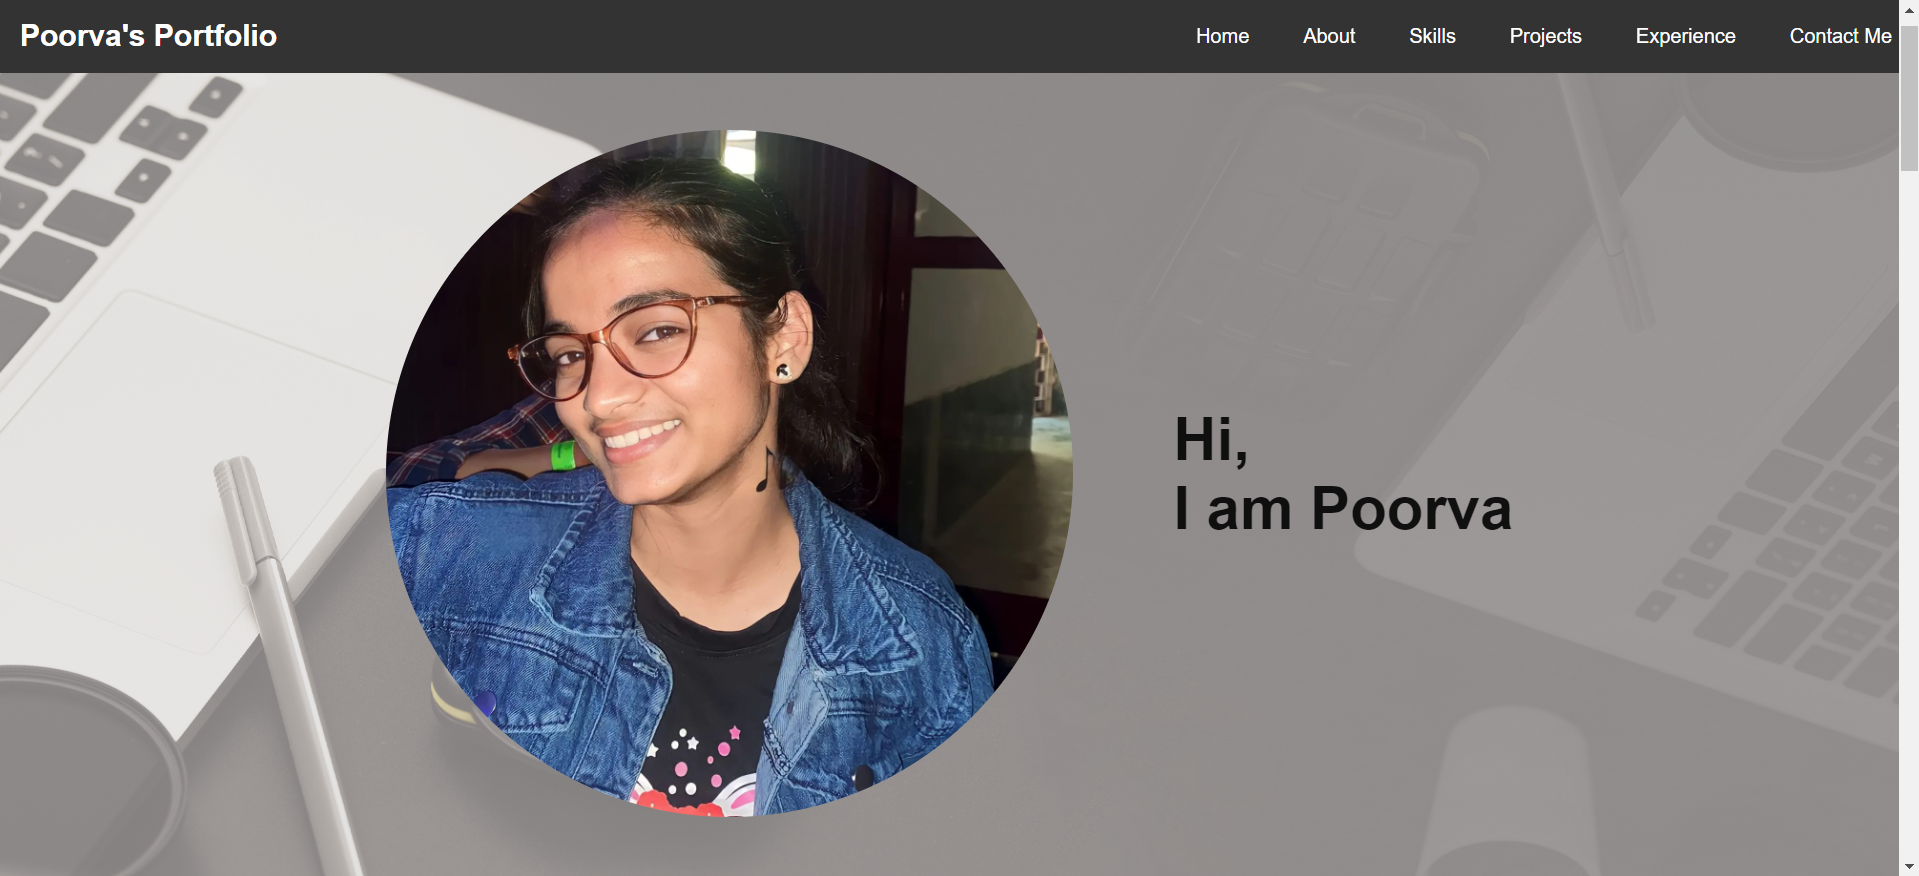
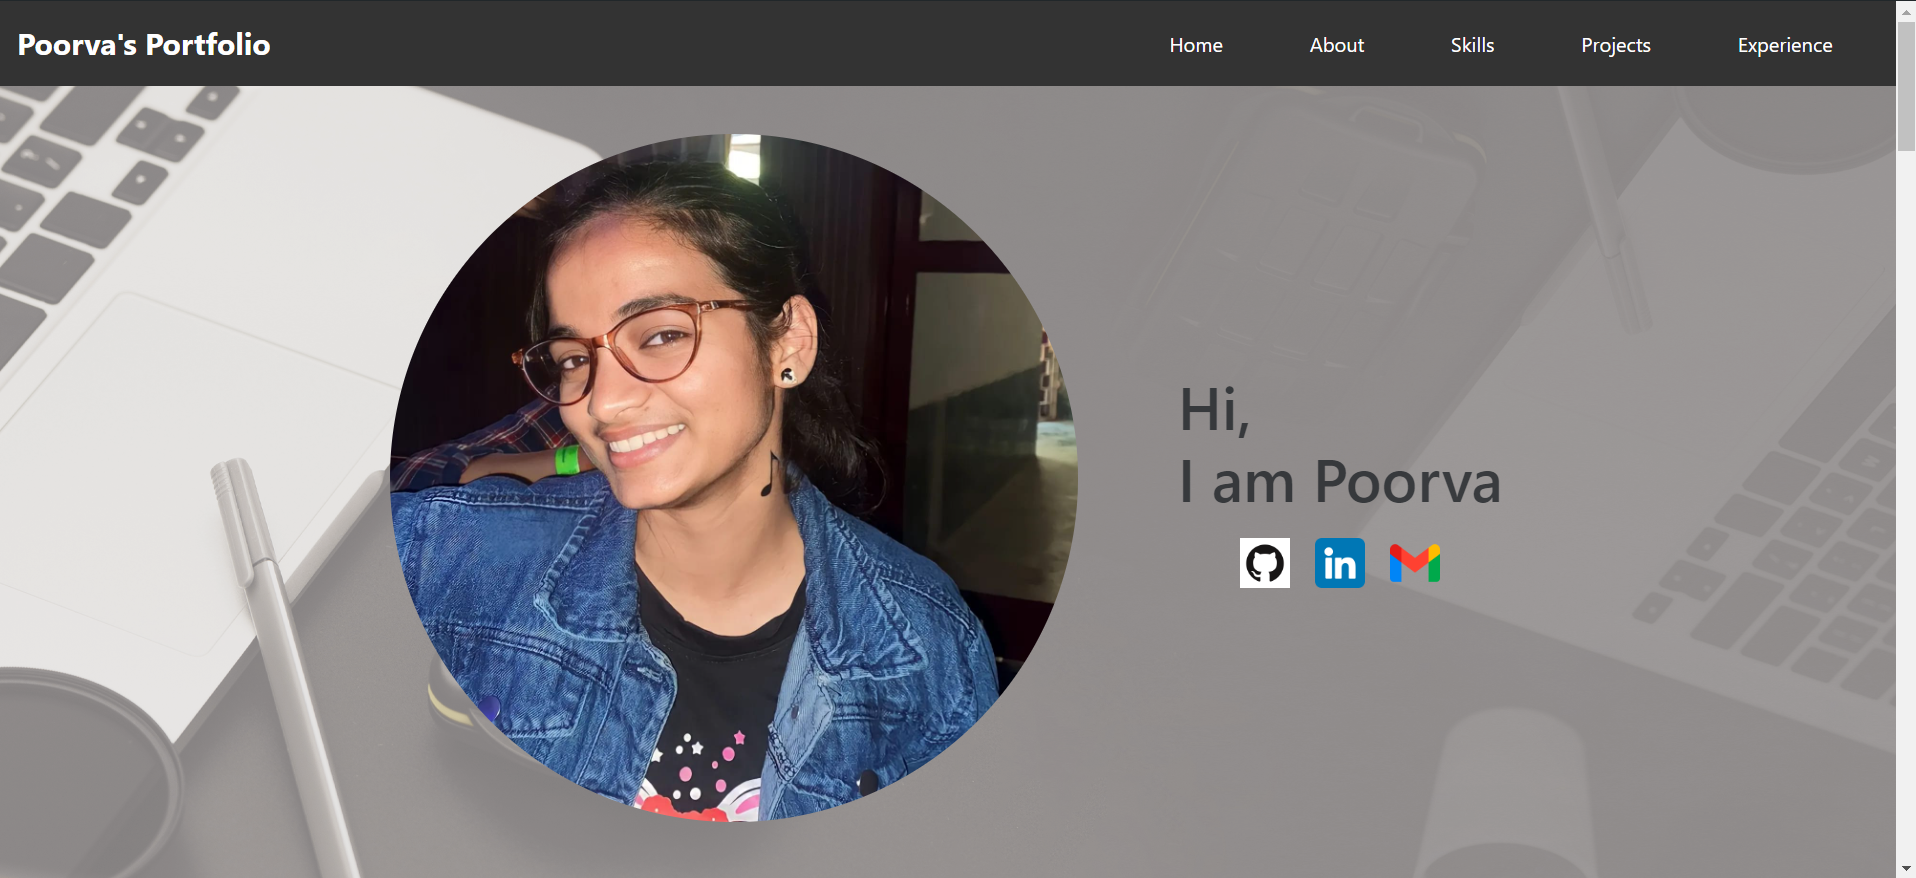
Added Experience section and its styles

diff --git a/home.html b/home.html
@@ -5,6 +5,7 @@
     <meta name="viewport" content="width=device-width, initial-scale=1.0">
     <title>Poorva's Portfolio</title>
     <link rel="stylesheet" href="home.css">
+    <link href="https://cdn.jsdelivr.net/npm/bootstrap@5.3.3/dist/css/bootstrap.min.css" rel="stylesheet" integrity="sha384-QWTKZyjpPEjISv5WaRU9OFeRpok6YctnYmDr5pNlyT2bRjXh0JMhjY6hW+ALEwIH" crossorigin="anonymous">
 </head>
 <body>
     <!-- Navigation -->
@@ -21,7 +22,6 @@
             <li><a href="#skills">Skills</a></li>
             <li><a href="#projects">Projects</a></li>
             <li><a href="#experience">Experience</a></li>
-            <li><a href="#contact">Contact Me</a></li>
         </ul>
     </nav>
     
@@ -30,7 +30,20 @@
         <div class="intro">
             <img src="./images/My_pic.jpg" alt="Poorva's Picture" class="profile-pic">
             <div class="intro-text">
-                <h1><span class="animated-text">Hi 👋 ,<br> I am Poorva</span></h1>
+                <h1><span class="animated-text">Hi,<br> I am Poorva</span></h1>
+                
+                <div class="social-links">
+                    <a href="https://github.com/Poorvab2525" target="_blank">
+                        <img src="./images/github_logo.png" alt="GitHub Icon">
+                    </a>
+                    <a href="https://www.linkedin.com/in/poorva-bhagwat/" target="_blank">
+                        <img src="./images/linkedin.png" alt="LinkedIn Icon">
+                    </a>
+                    <a href="mailto:poorvabhagwat@gmail.com">
+                        <img src="./images/gmail.png" alt="Email Icon">
+                    </a>
+                </div>
+           
             </div>
         </div>
     </div>
@@ -133,6 +146,22 @@
             </div>
         </div>
     </div>
+
+        <!-- Experience Section -->
+<div id="experience" class="experience-container">
+    <h1>Experience</h1>
+    <div class="experience-card">
+        <img src="./images/logo.png" alt="Agama Law Associates Logo" class="experience-logo">
+        <h2>Agama Law Associates</h2>
+        <p><strong>Intern in Web Development</strong></p>
+        <ul>
+            <li>Assisted in developing a contract-lifecycle management tool to streamline contract management for the law firm reducing contract management time by 30%.</li>
+            <li>Integrated centralized storage solutions, automated 25+ workflows, and established compliance monitoring systems; increased operational efficiency by 40% and mitigated compliance risks by 20% within the first quarter.</li>
+            <li><strong>Proficiencies Attained:</strong> Web Development, Critical Thinking, Project Management, Teamwork and Collaboration, Responsive Web Design, Node.js, Express.js, EJS.</li>
+        </ul>
+    </div>
+</div>
+
 
     <script src="scripts.js"></script>
 </body>

diff --git a/home.css b/home.css
@@ -432,4 +432,148 @@ nav ul li.active::before {
     }
 }
 
+/* Experience Section Styles */
+.experience-container {
+    padding-top: 80px; /* Adjust for nav height */
+    text-align: center;
+    padding: 60px 20px; /* Padding for spacing */
+}
 
+.experience-container h1 {
+    font-size: 3rem;
+    margin-bottom: 2rem;
+}
+
+.experience-card {
+    background: #312b2b; /* Matching background color */
+    border-radius: 8px;
+    color: white; /* Matching text color */
+    box-shadow: 0 0 10px rgba(77, 75, 75, 0.5); /* Matching shadow */
+    padding: 20px;
+    margin: 0 auto;
+    max-width: 800px;
+    text-align: left;
+}
+
+.experience-logo {
+    max-width: 100px; /* Adjust size as needed */
+    height: auto;
+    display: block;
+    margin: 0 auto 1rem; /* Center logo and add bottom margin */
+}
+
+.experience-card h2 {
+    font-size: 2rem;
+    margin-top: 0;
+}
+
+.experience-card p {
+    font-size: 1.2rem;
+    line-height: 1.5;
+    margin: 0.5rem 0;
+}
+
+.experience-card ul {
+    list-style-type: disc;
+    padding-left: 1.5rem;
+}
+
+.experience-card ul li {
+    font-size: 1rem;
+    line-height: 1.5;
+}
+
+/* Social Links Styles */
+.social-links {
+    margin-top: 20px;
+    display: flex;
+    justify-content: center;
+    gap: 20px;
+}
+
+.social-links a {
+    display: inline-block;
+}
+
+.social-links img {
+    width: 40px;
+    height: 40px;
+    transition: transform 0.3s;
+}
+
+.social-links img:hover {
+    transform: scale(1.1);
+}
+
+/* Responsive Styles */
+@media (max-width: 768px) {
+    .social-links {
+        gap: 15px;
+    }
+
+    .social-links img {
+        width: 35px;
+        height: 35px;
+    }
+}
+
+@media (max-width: 480px) {
+    .social-links {
+        gap: 10px;
+    }
+
+    .social-links img {
+        width: 30px;
+        height: 30px;
+    }
+}
+
+/* Responsive Styles */
+@media (max-width: 768px) {
+    .experience-container h1 {
+        font-size: 2rem;
+    }
+
+    .experience-card h2 {
+        font-size: 1.5rem;
+    }
+
+    .experience-card p {
+        font-size: 1rem;
+    }
+
+    .experience-card ul {
+        padding-left: 1rem;
+    }
+
+    .experience-card ul li {
+        font-size: 0.9rem;
+    }
+}
+
+/* Responsive Styles */
+@media (max-width: 768px) {
+    .experience-container h1 {
+        font-size: 2rem;
+    }
+
+    .experience-card h2 {
+        font-size: 1.5rem;
+    }
+
+    .experience-card p {
+        font-size: 1rem;
+    }
+
+    .experience-card ul {
+        padding-left: 1rem;
+    }
+
+    .experience-card ul li {
+        font-size: 0.9rem;
+    }
+
+    .experience-logo {
+        max-width: 80px; /* Smaller logo size for smaller screens */
+    }
+}
